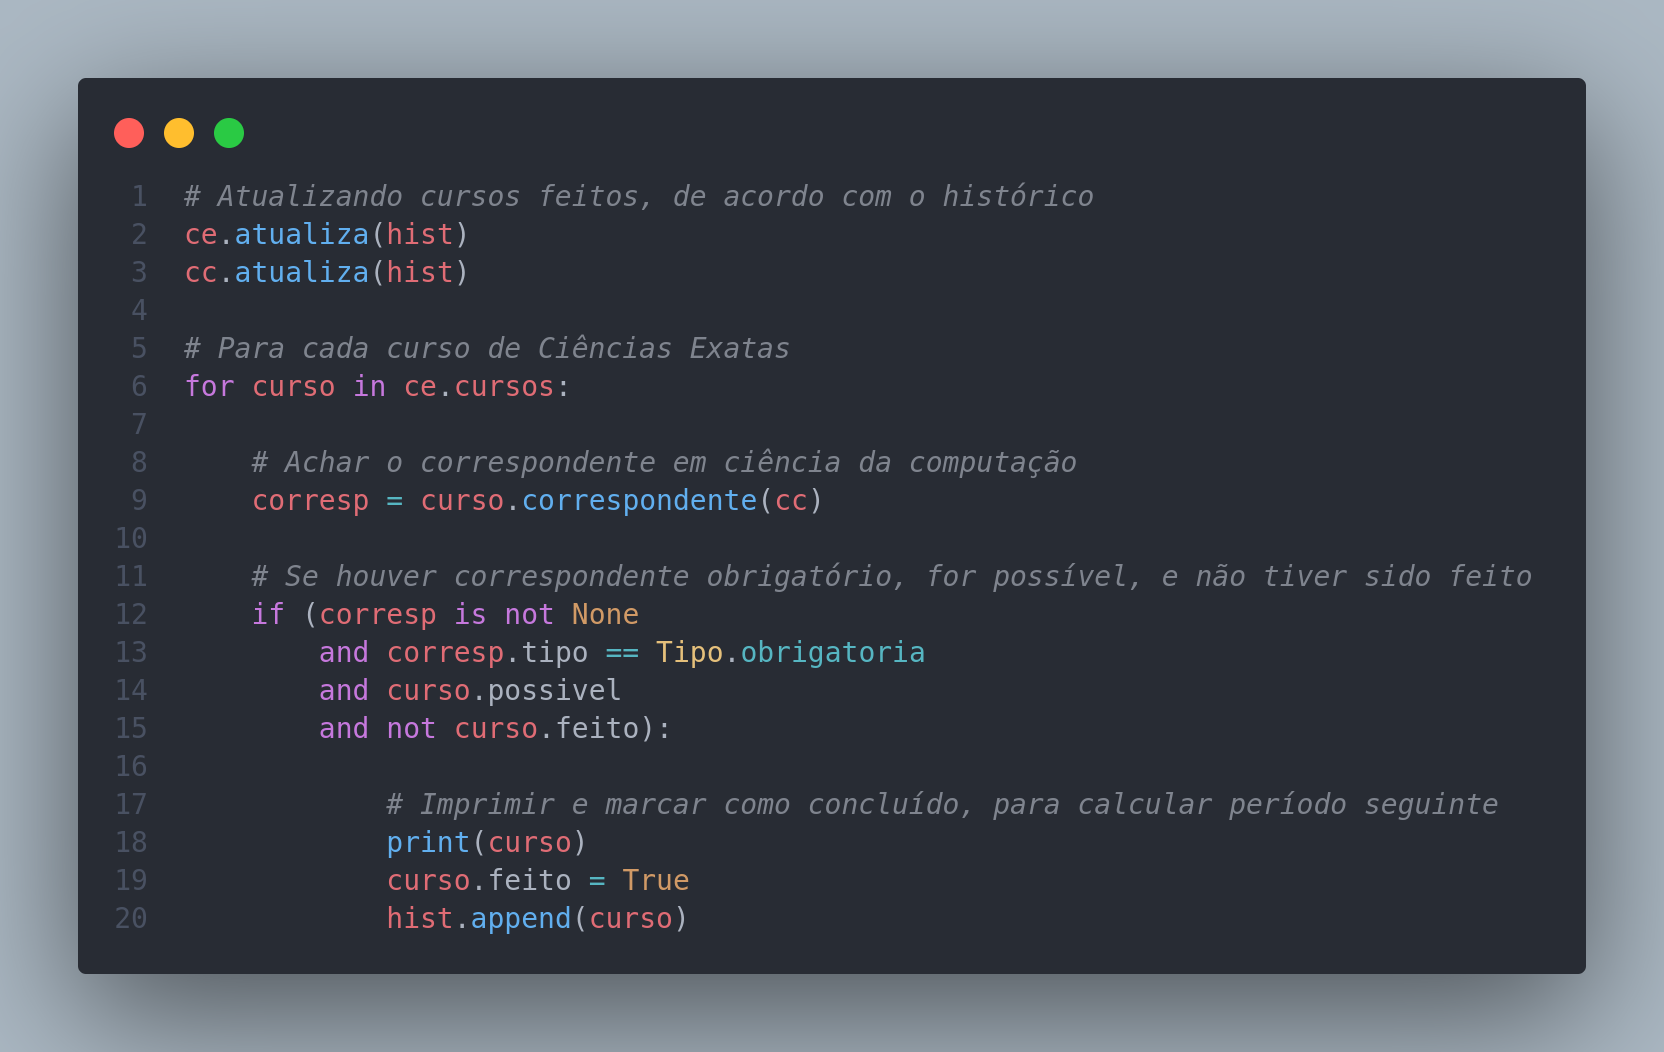
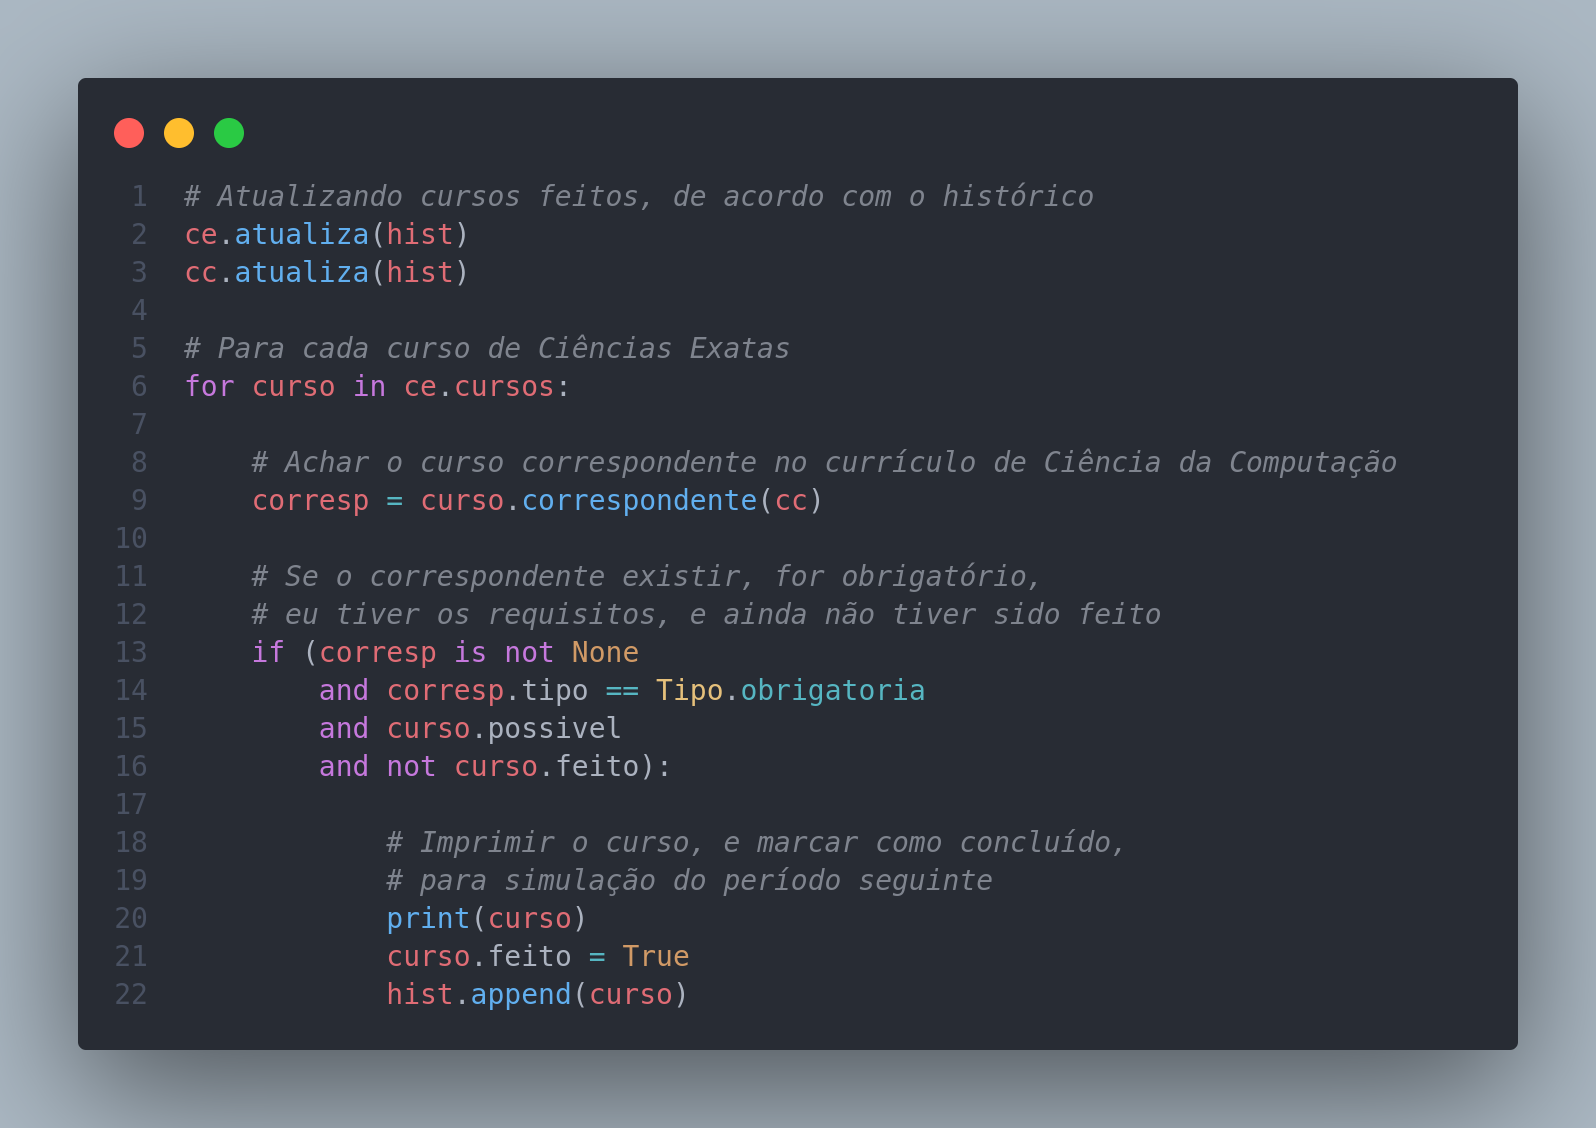
usage asset updated

diff --git a/proximas.py b/proximas.py
@@ -17,16 +17,18 @@ cc.atualiza(hist)
 # Para cada curso de Ciências Exatas
 for curso in ce.cursos:
 
-    # Achar o correspondente em ciência da computação    
+    # Achar o curso correspondente no currículo de Ciência da Computação    
     corresp = curso.correspondente(cc)
 
-    # Se houver correspondente obrigatório, for possível, e não tiver sido feito
+    # Se o correspondente existir, for obrigatório, 
+    # eu tiver os requisitos, e ainda não tiver sido feito
     if (corresp is not None 
         and corresp.tipo == Tipo.obrigatoria
         and curso.possivel
         and not curso.feito):
             
-            # Imprimir e marcar como concluído, para calcular período seguinte
+            # Imprimir o curso, e marcar como concluído, 
+            # para simulação do período seguinte
             print(curso)
             curso.feito = True
             hist.append(curso)
